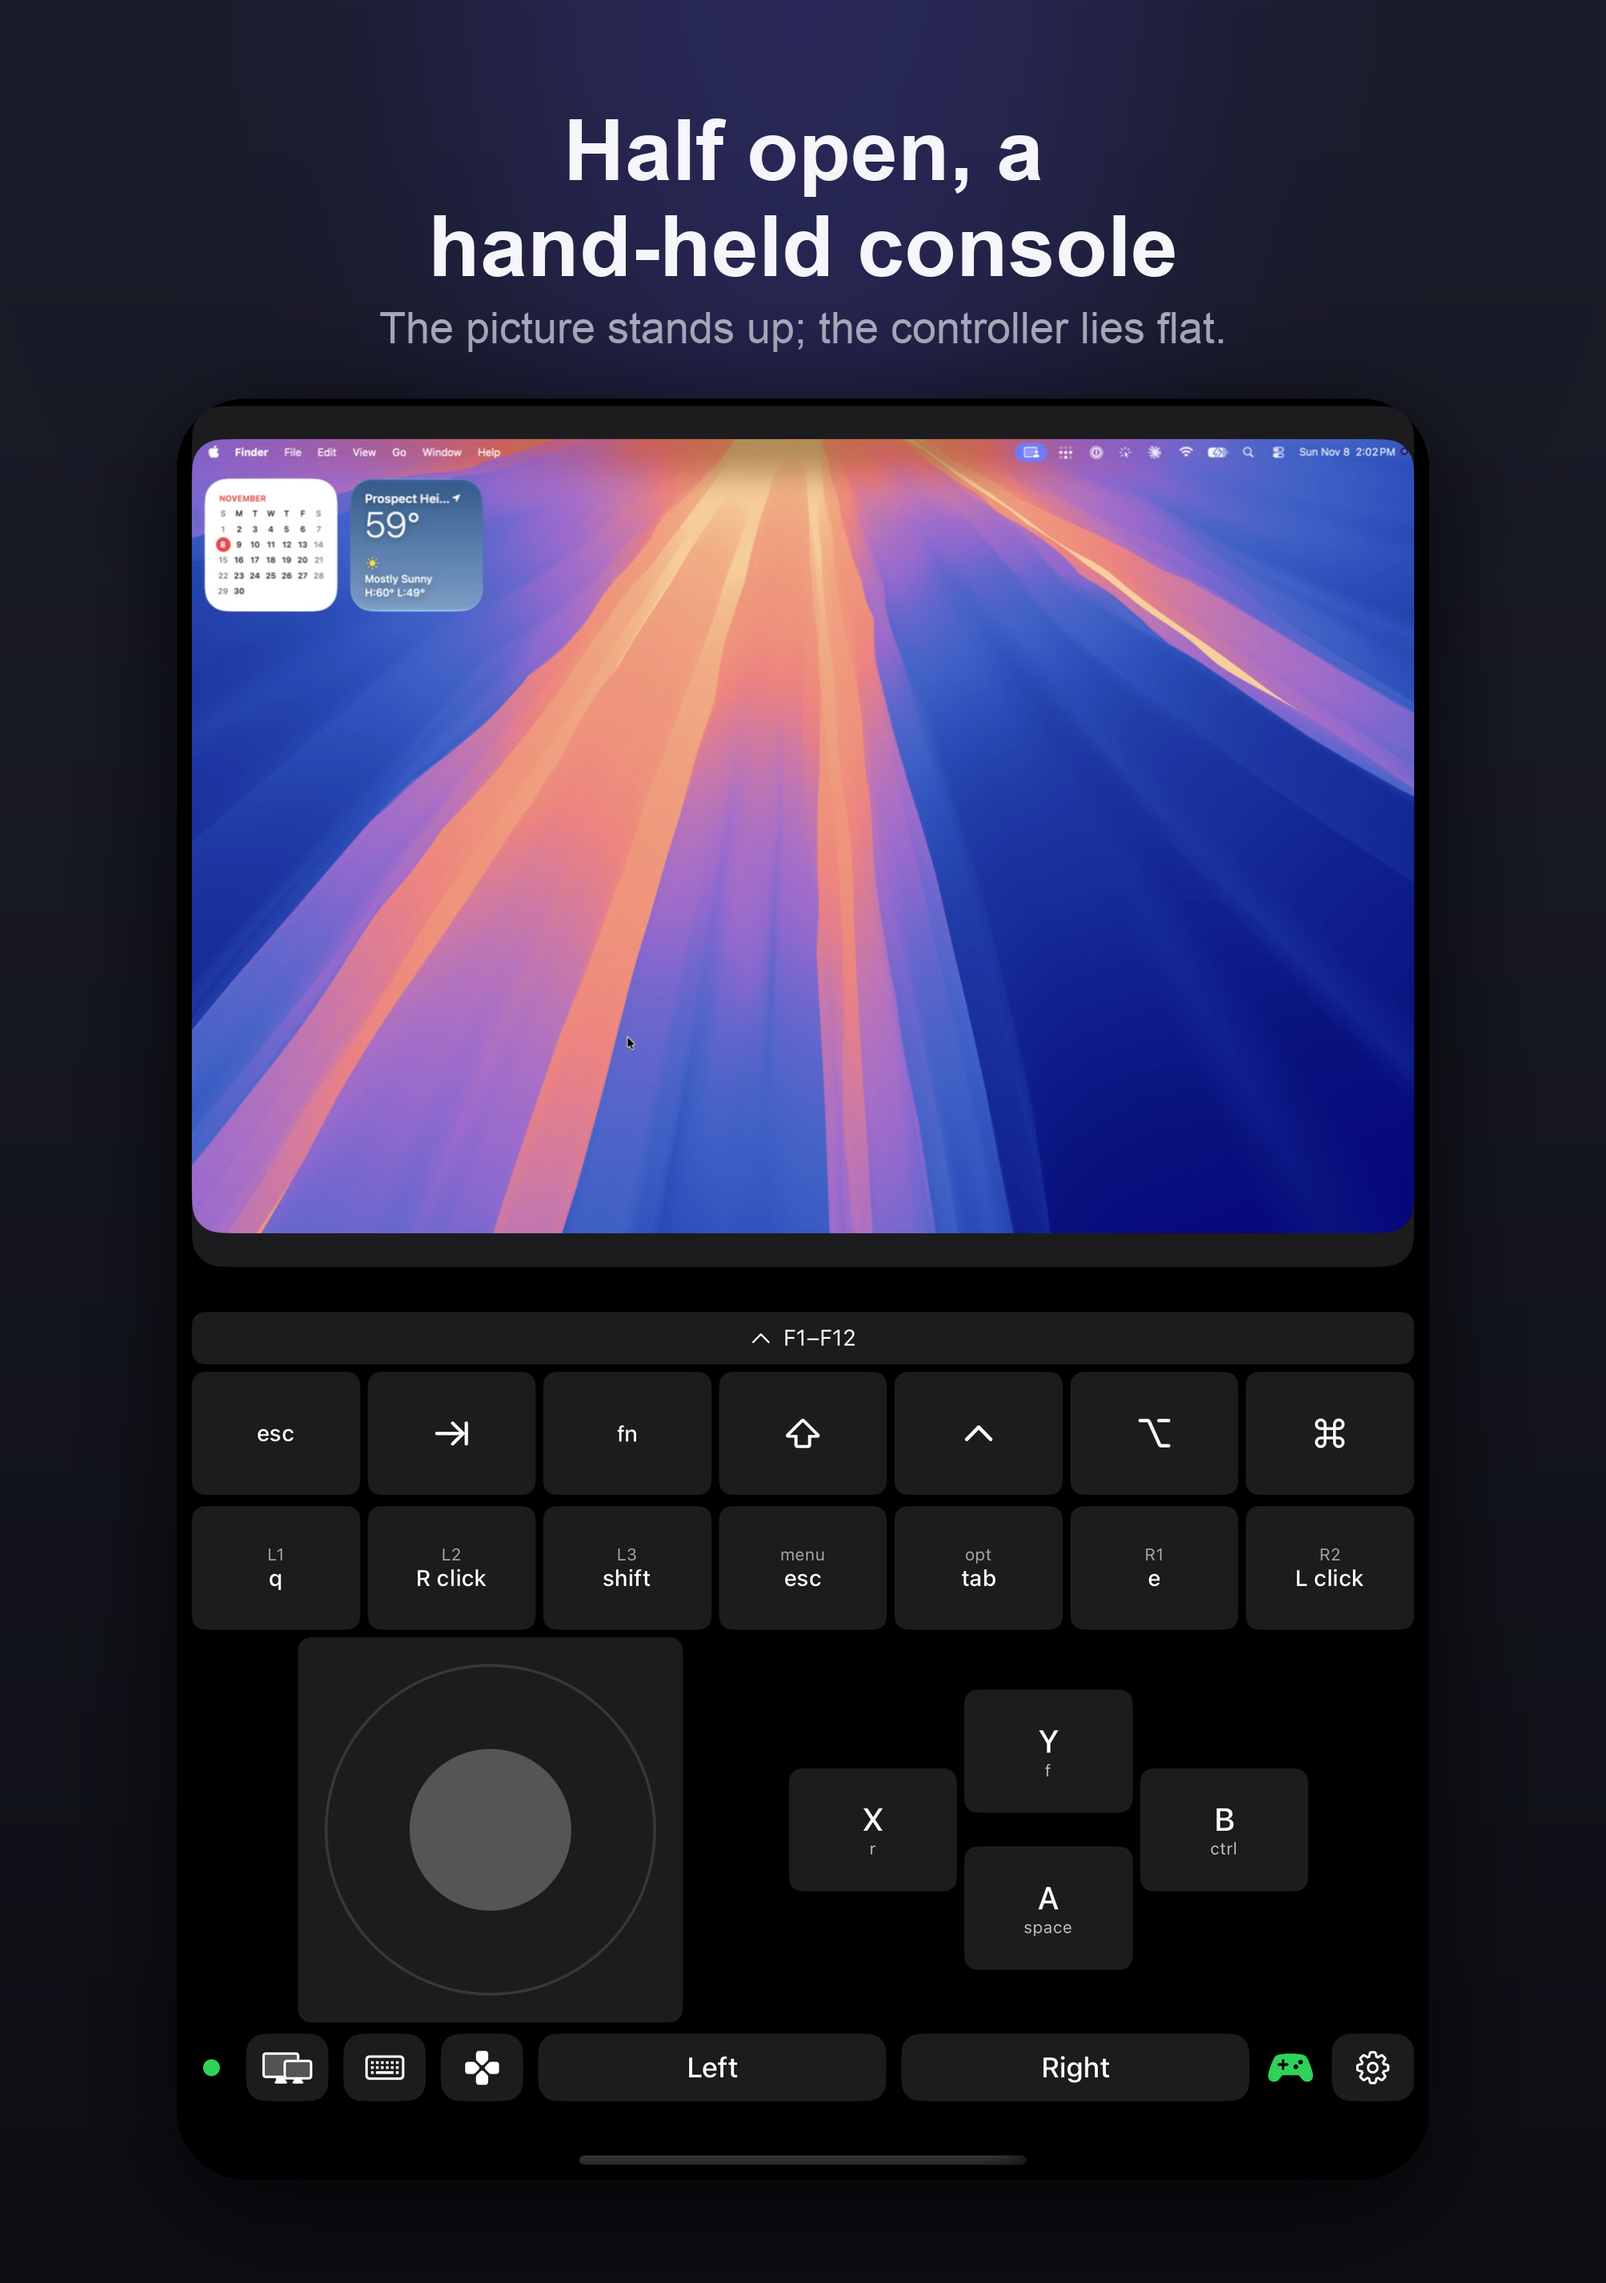
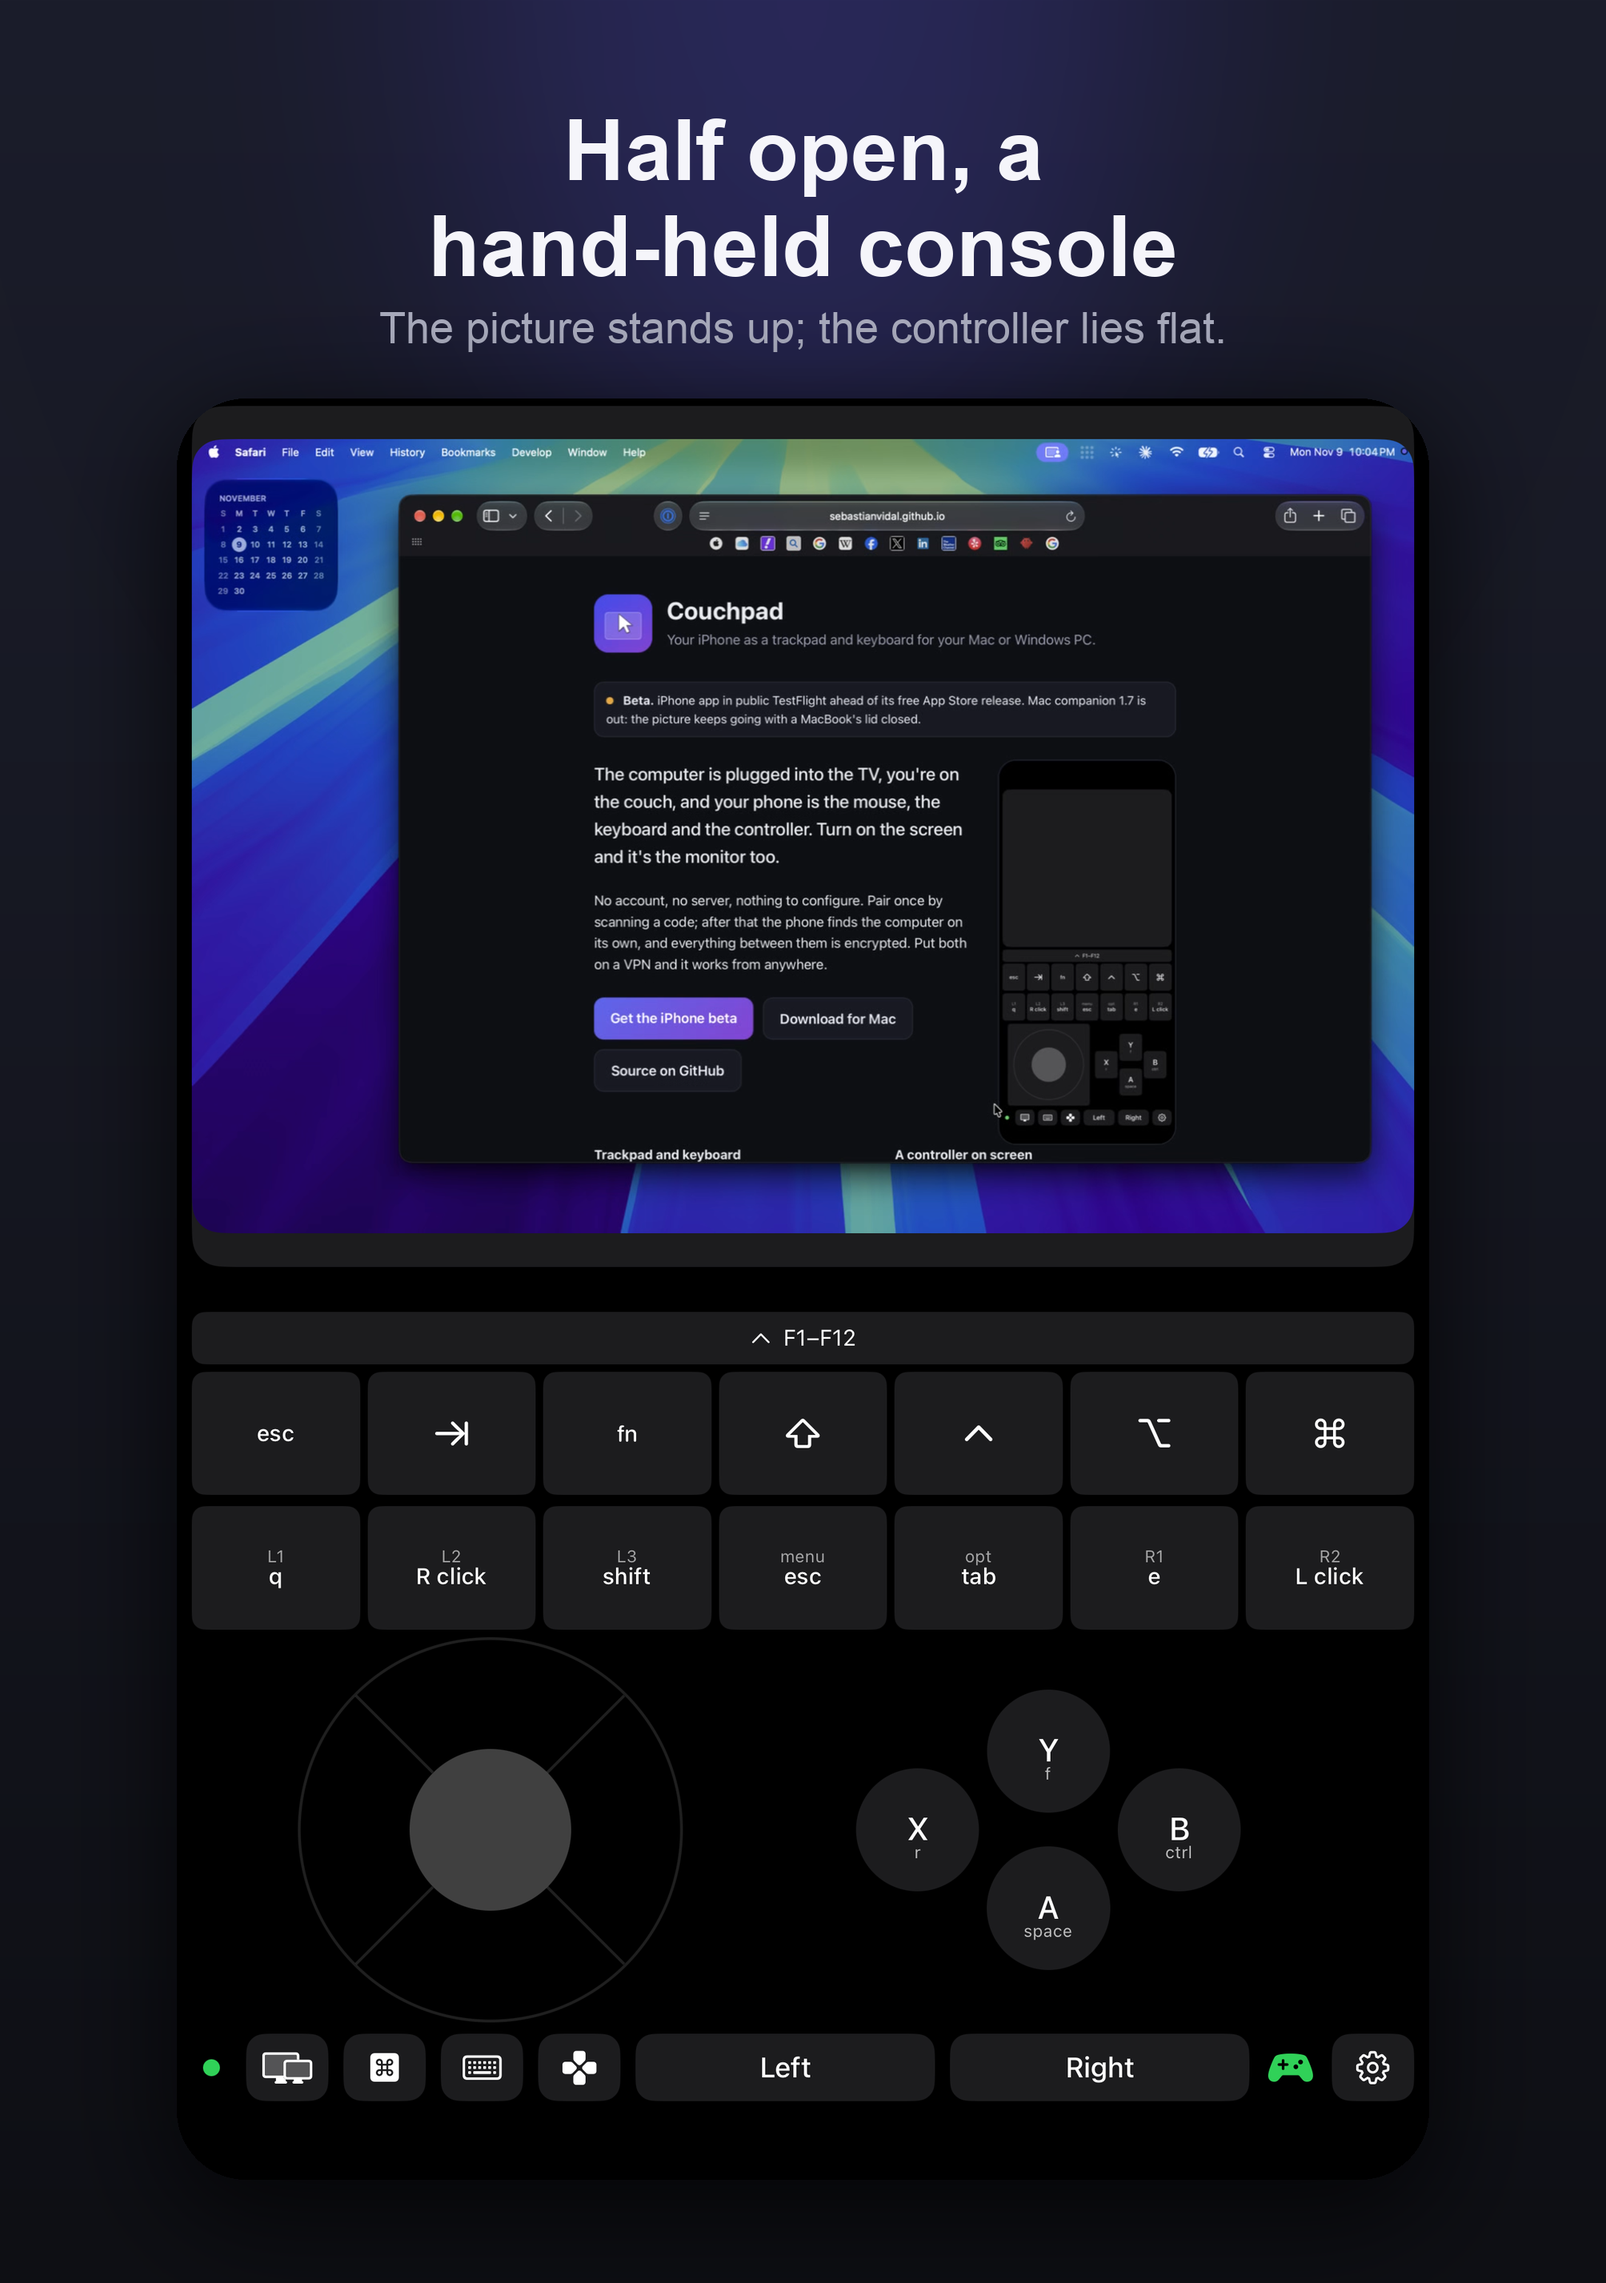
Screenshots regenerated from the 1.3 build; sideways shots use the overlay
All App Store sets (6.3", 6.9", iPhone Duo), the header and search artwork and
the site's three controller images are recaptured from main: the new stick,
round face buttons, the key-row button in the bar, the newer Settings rows.
The Mac's picture now shows the Couchpad site in Safari instead of an empty
desktop. The sideways shots (Duo folded and unfolded, the artwork's Duo, the
site's sideways image) show the controller floating over the picture; the
folded caption and the site's caption say so.

Notes: text on the header and search artwork is optional per Apple and left
out; the claim that the App Store draws the name and icon over them was never
documented and is gone. How to keep private windows out of picture shots.

diff --git a/docs/controller.html b/docs/controller.html
@@ -69,8 +69,8 @@
     <li><strong>iPhone Duo, half open</strong> with the picture on: the picture sits on the upright half and the pad fills the flat half, like a clamshell console.</li>
   </ul>
   <figure class="shot land">
-    <img src="screenshots/controller-landscape.png" width="1000" height="460" alt="Couchpad sideways with the on-screen controller on. The trackpad fills the top of the screen. Under it one short band: the stick on the left, the seven programmable keys in the middle, and the A B X Y diamond on the right. The bar is along the bottom edge.">
-    <figcaption>Sideways: stick, keys, diamond in one band</figcaption>
+    <img src="screenshots/controller-landscape.png" width="1000" height="460" alt="Couchpad sideways with Pad over the picture on. The Mac's screen fills the screen above the bar. Floating translucent over its lower part: the stick on the left, the F1–F12 bar and two rows of keys in the middle, and the A B X Y buttons on the right. The bar is along the bottom edge.">
+    <figcaption>Sideways with Pad over the picture: the controller floats over the Mac's screen</figcaption>
   </figure>
 
   <h2>Which games</h2>

diff --git a/Tools/compose-duo.py b/Tools/compose-duo.py
@@ -18,7 +18,7 @@ os.makedirs(OUT, exist_ok=True)
 renders = [
     # (raw, out, canvas (w, h), headline, sub)
     ("outer-portrait.png",  "duo-outer-01-portrait.png",  (1398, 2034), "The controller, folded",       "Picture, stick and keys on the cover display."),
-    ("outer-landscape.png", "duo-outer-02-landscape.png", (2034, 1398), "Sideways, folded",             "The controller is a band under the picture."),
+    ("outer-landscape.png", "duo-outer-02-landscape.png", (2034, 1398), "Sideways, folded",             "The controller floats over the picture."),
     ("inner-portrait.png",  "duo-inner-01-portrait.png",  (2007, 2853), "Unfold for a\nbigger picture", "The controller takes the bottom half, like a console."),
     ("inner-landscape.png", "duo-inner-02-landscape.png", (2853, 2007), "Unfolded, sideways",           "Stick on the left, A B X Y on the right."),
     ("inner-half-open.png", "duo-inner-03-half-open.png", (2007, 2853), "Half open, a\nhand-held console", "The picture stands up; the controller lies flat."),

diff --git a/Tools/compose-artwork.py b/Tools/compose-artwork.py
@@ -6,8 +6,8 @@ from PIL import Image, ImageCms, ImageDraw, ImageFilter
 #   search results        3:2, 1920x1280 up to 3840x2560 (rendered at the maximum)
 # PNG/JPEG, no alpha. Apple's spec page gives no pixel safe area (that lives in its design
 # templates); its best practices say to keep the focal point in the centre so nothing is
-# clipped, so the devices sit in the middle with wide margins. No text: the App Store
-# draws the name, icon and Get button over the asset itself.
+# clipped, so the devices sit in the middle with wide margins. No text: it is optional, and
+# the safe areas for it are only in Apple's design templates (see docs/app-store-copy.md).
 #
 #   python3 Tools/compose-artwork.py <raw dir> <out dir>
 #

diff --git a/docs/app-store-copy.md b/docs/app-store-copy.md
@@ -195,8 +195,13 @@ phone sets and the Duo set.
 
 Regenerate with `python3 Tools/compose-screenshots.py <raw captures> <out dir> large|medium`;
 the script lists the raw file names it expects and skips any that are missing (raw captures:
-`xcrun simctl io <udid> screenshot name.png`). Picture shots: set the Mac to an empty desktop
-first; the streamed picture is whatever is on its screen.
+`xcrun simctl io <udid> screenshot name.png`). Picture shots: the streamed picture is whatever
+is on the Mac's main display at that moment, on whichever desktop is in front, so put only
+what may be published there first. The current set shows the Couchpad site in one Safari
+window (its favourites bar, with other sites' icons, is visible: hide it with ⇧⌘B next time).
+Look at every capture before keeping it. The 6.9" 05 and 06 show the simulator's status bar:
+`xcrun simctl status_bar <udid> override --time 9:41 --batteryState charged --batteryLevel 100
+--cellularBars 4` before capturing, `clear` after.
 
 iPhone Duo set, `docs/screenshots/duo/`, all with the on-screen controller and the picture:
 outer display 1398×2034 (`duo-outer-01-portrait`, `duo-outer-02-landscape`, folded) and inner
@@ -204,7 +209,10 @@ display 2007×2853 (`duo-inner-01-portrait` and `duo-inner-02-landscape` unfolde
 `duo-inner-03-half-open` split at the hinge). Regenerate with
 `python3 Tools/compose-duo.py <raw captures> <out dir>`; raw captures come from the Duo
 simulator, one display at a time: `xcrun simctl io <duo udid> screenshot --display=1 outer.png`
-(`--display=3` for the inner one). Postures come from Device Hub's toolbar.
+(`--display=3` for the inner one). Postures come from Device Hub's toolbar. The two sideways
+shots use the overlay (`defaults write com.seb.Couchpad padOverlay -bool true`): the
+controller floats over the picture. Keep Device Hub's window off the Mac's desktop while
+capturing, or it ends up in the picture.
 
 ### Promotional artwork (header and search results)
 
@@ -221,9 +229,13 @@ live version from Asset Library without a new build.
 
 Both show the same thing on the site's navy gradient: the 6.3" iPhone upright with the Mac's
 picture over the on-screen controller, and the unfolded iPhone Duo sideways beside it, as one
-group centred with wide margins. No text, logos or icon: the App Store draws the name, icon
-and Get button over the asset. Apple's spec page gives no pixel safe area (that is in its
-design templates) and says to keep the focal point in the centre; check with **Preview** in
+group centred with wide margins, the Duo with the overlay controller. No text, logos or icon.
+Text is optional: Apple's asset best practices (developer.apple.com/app-store/asset-best-practices)
+allow "a short phrase that enhances your visual", localised for every language the app
+supports; we leave it out because the safe areas are only published inside Apple's design
+templates, not as pixel figures, and the two placements crop differently. Whether the App
+Store draws the name, icon or Get button over these assets is not documented anywhere we
+found. Apple says to keep the focal point in the centre; check with **Preview** in
 App Store Connect before submitting. Apple also accepts a 16:9 5244×2950 PNG as a universal
 asset for both placements; we don't make one.
 
